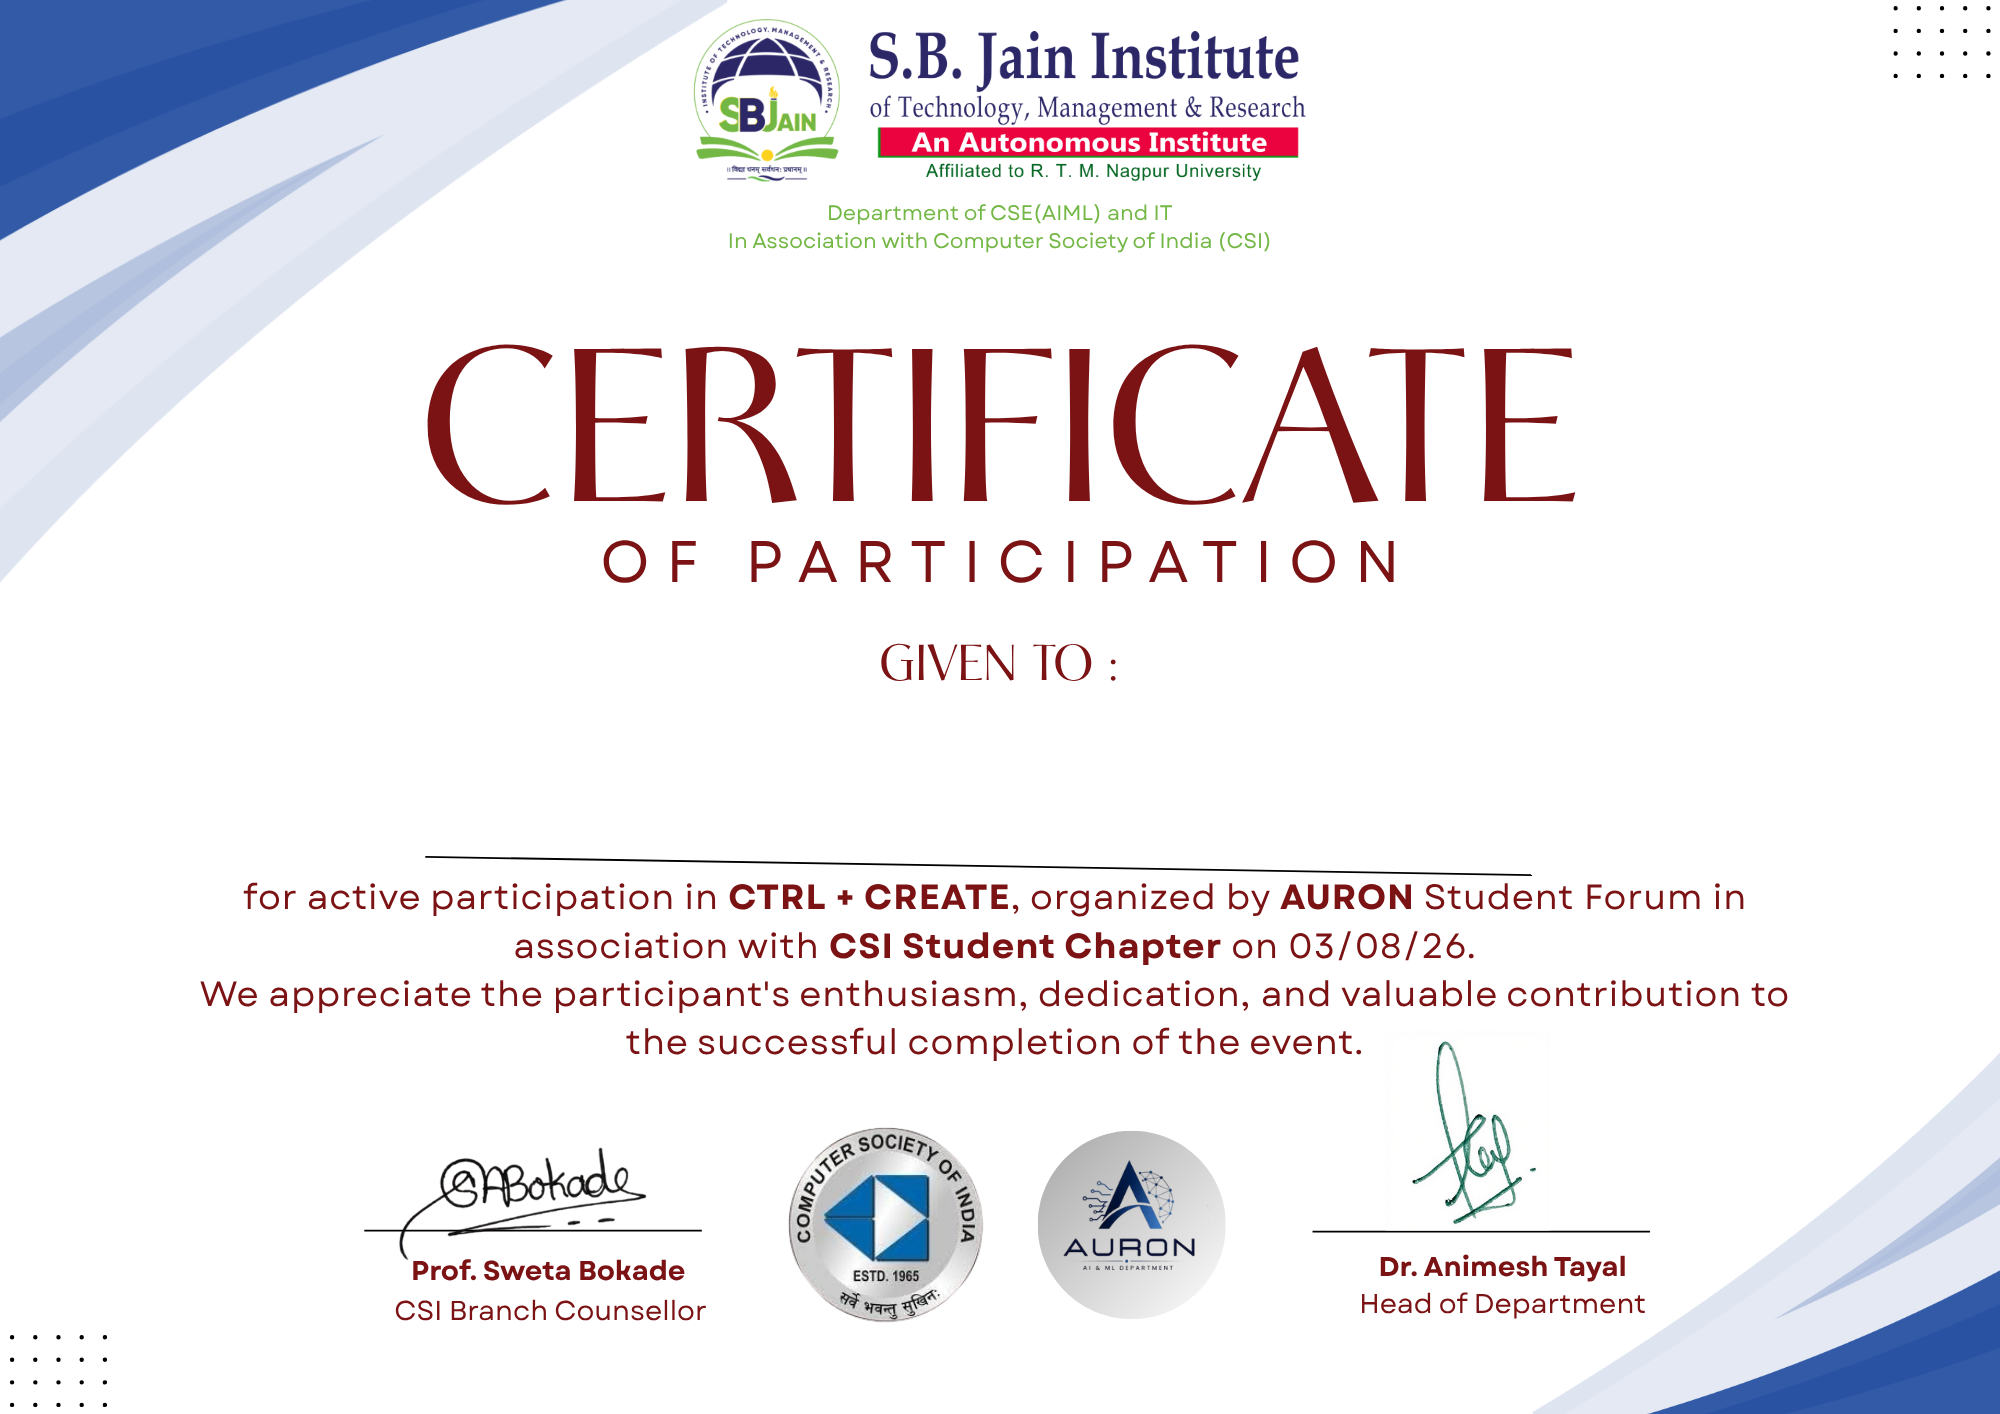
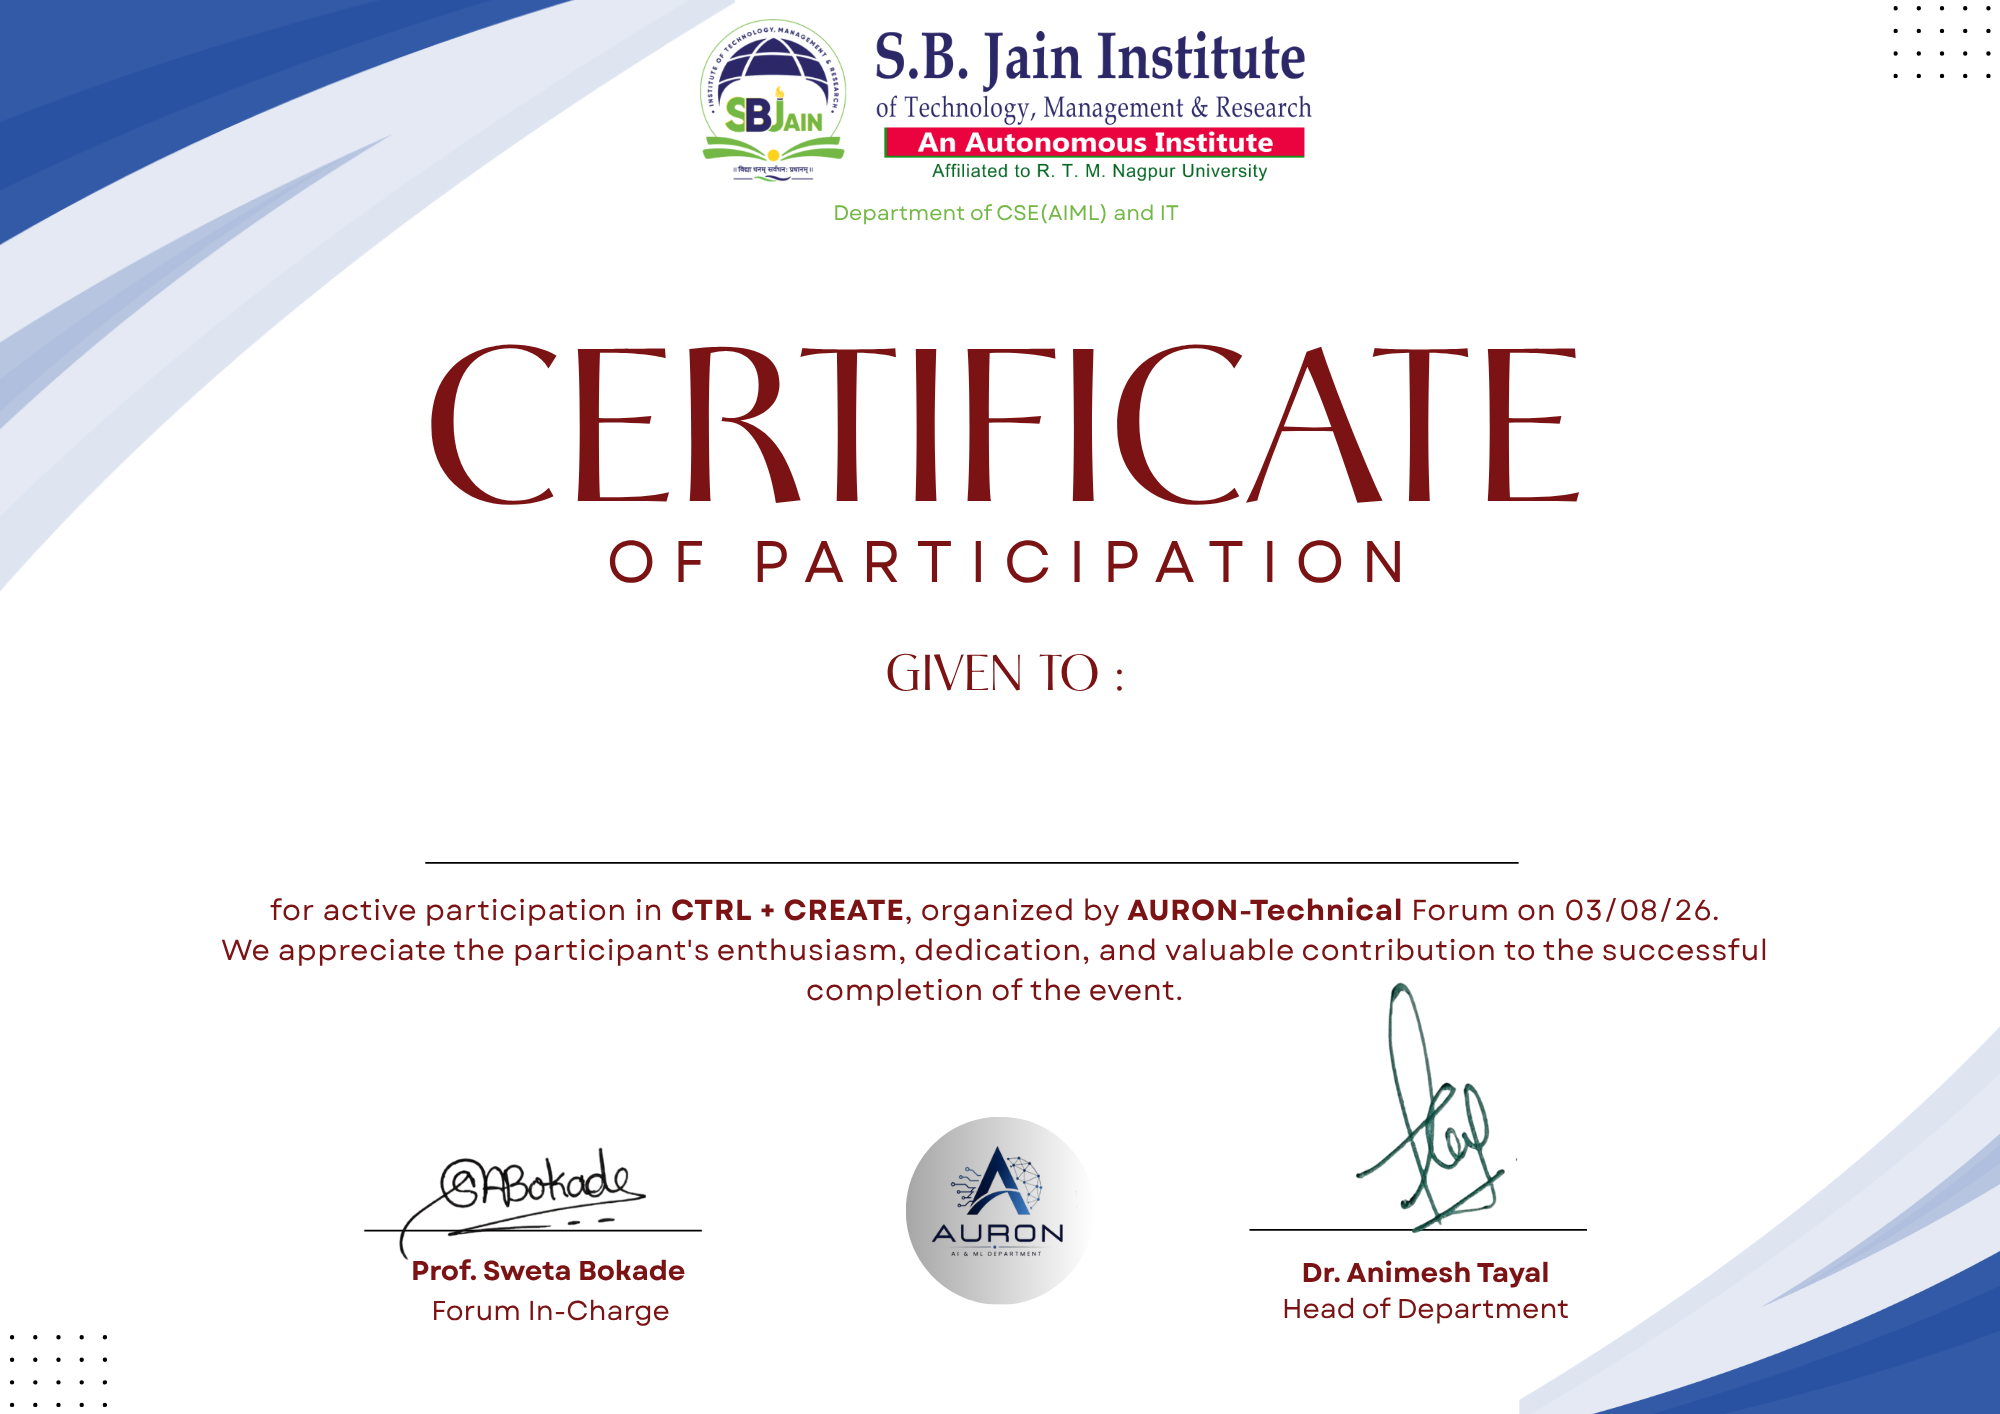
chore: clean hall of fame list and update certificate template

diff --git a/data/hallOfFame.ts b/data/hallOfFame.ts
@@ -13,6 +13,5 @@ export const HALL_OF_FAME_PHOTOS: HallOfFamePhoto[] = [
   { id: "6", src: "/hall_of_fame/ff_4.jpg", alt: "Flash Mob 4" },
   { id: "7", src: "/hall_of_fame/ff_5.jpg", alt: "Flash Mob 5" },
   { id: "8", src: "/hall_of_fame/fi_1.jpg", alt: "Forum Installation 1" },
-  { id: "9", src: "/hall_of_fame/fi_3 (1).jpg", alt: "Forum Installation 2" },
-  { id: "10", src: "/hall_of_fame/fi_3 (2).jpg", alt: "Forum Installation 3" },
+  { id: "9", src: "/hall_of_fame/fi_3 (1).jpg", alt: "Forum Installation 2" }
 ];
